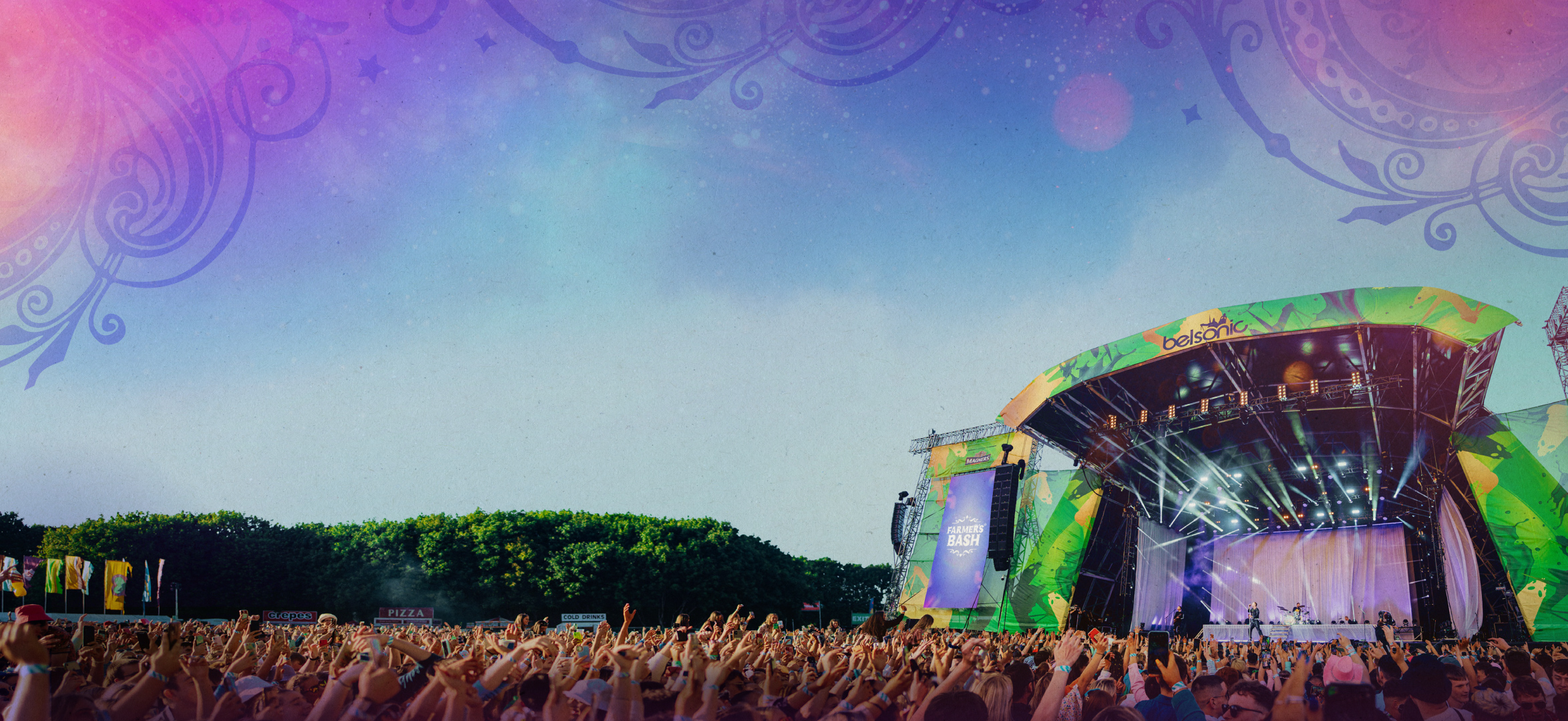
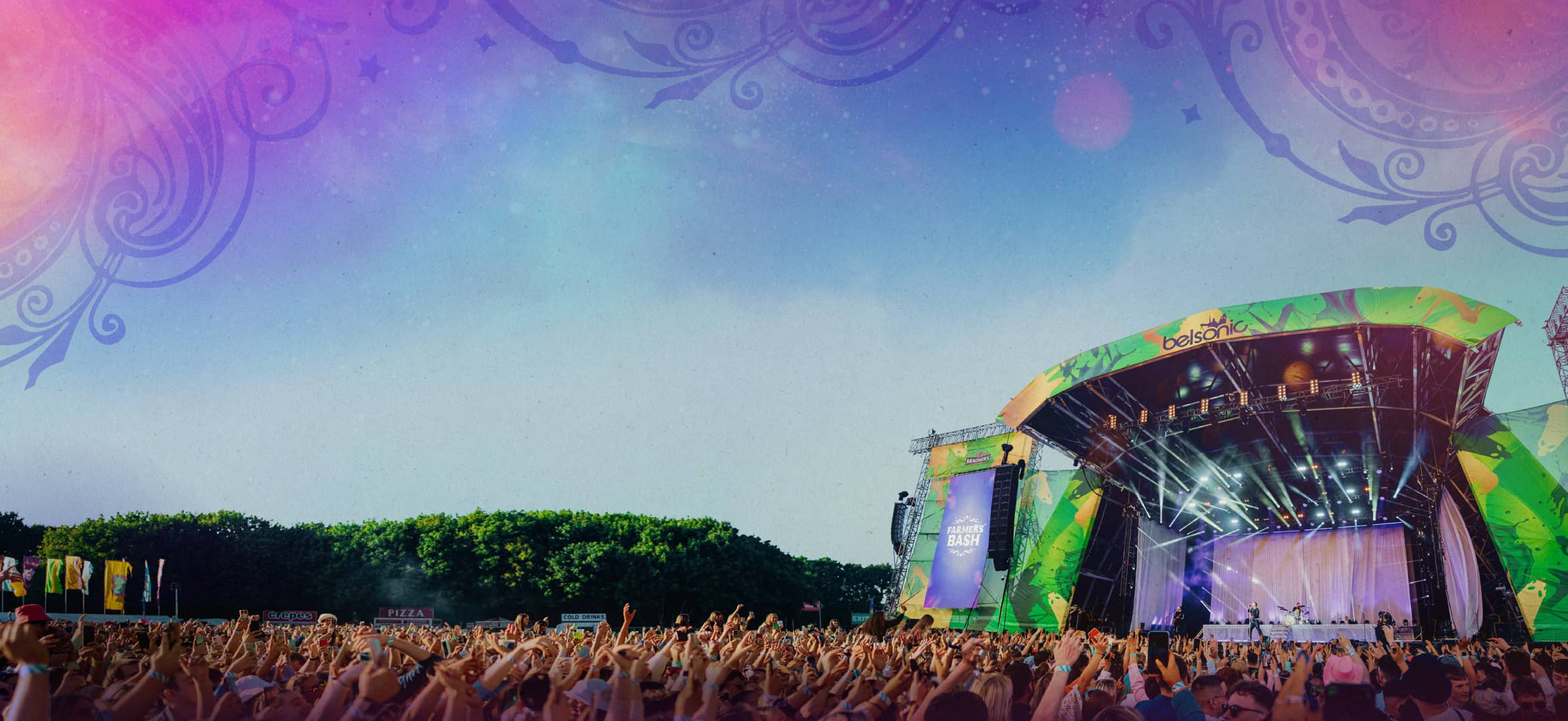
asd

diff --git a/src/components/NewsletterSignupPage.tsx b/src/components/NewsletterSignupPage.tsx
@@ -80,7 +80,7 @@ const NewsletterSignupPage: React.FC = () => {
       <div 
         className="absolute inset-0 bg-cover bg-center bg-no-repeat"
         style={{
-          backgroundImage: 'url(/images/bg6.jpg)',
+          backgroundImage: 'url(/images/bg6.png)',
           backgroundPosition: 'center',
           backgroundSize: 'cover',
         }}

diff --git a/src/ProgrammePage.tsx b/src/ProgrammePage.tsx
@@ -7,7 +7,7 @@ const ProgrammePage: React.FC = () => (
       justifyContent: "center",
       alignItems: "center",
       minHeight: "100vh",
-      backgroundImage: "url('/images/bg6.jpg')",
+      backgroundImage: "url('/images/bg6.png')",
       backgroundSize: "cover",
       backgroundPosition: "center",
       backgroundRepeat: "no-repeat",

diff --git a/src/App.tsx b/src/App.tsx
@@ -91,7 +91,7 @@ function App() {
       padding: "pt-4 pb-24 md:pb-48",
       background: {
         color: "bg-gray-100",
-        image: "url(/images/bg6.jpg)",
+        image: "url(/images/bg6.png)",
         position: "center bottom",
         backgroundSize: "cover",
         overlay: "bg-black/40",
